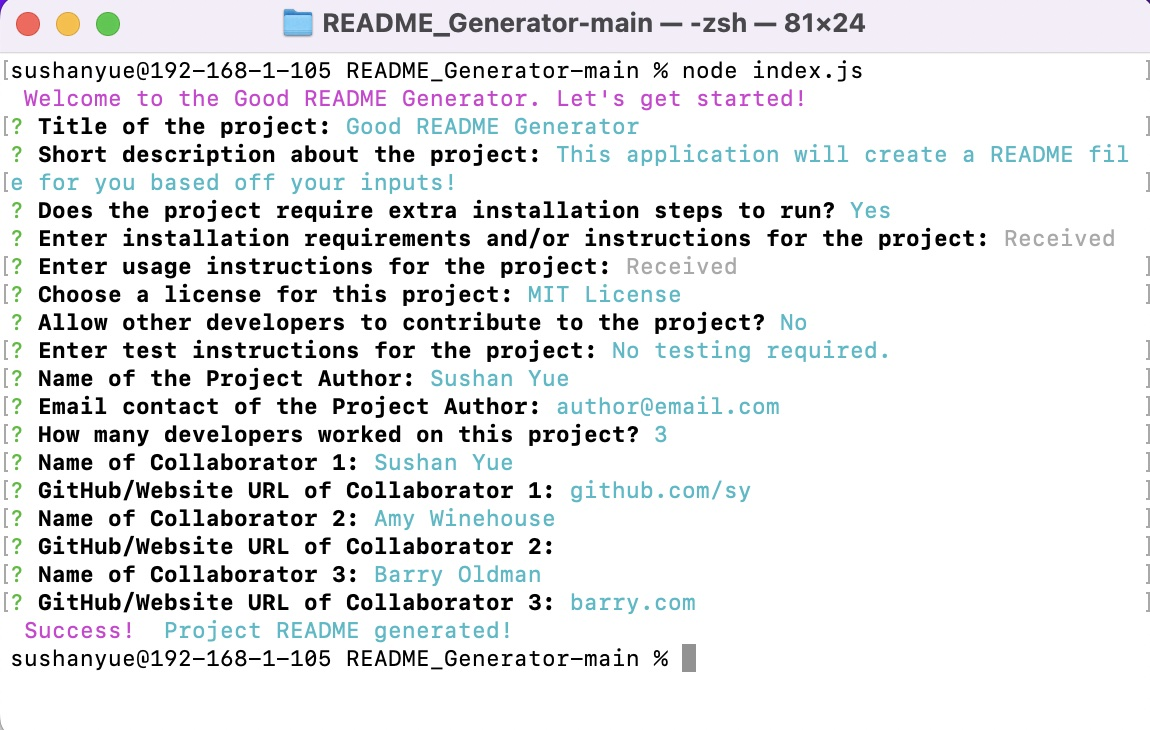
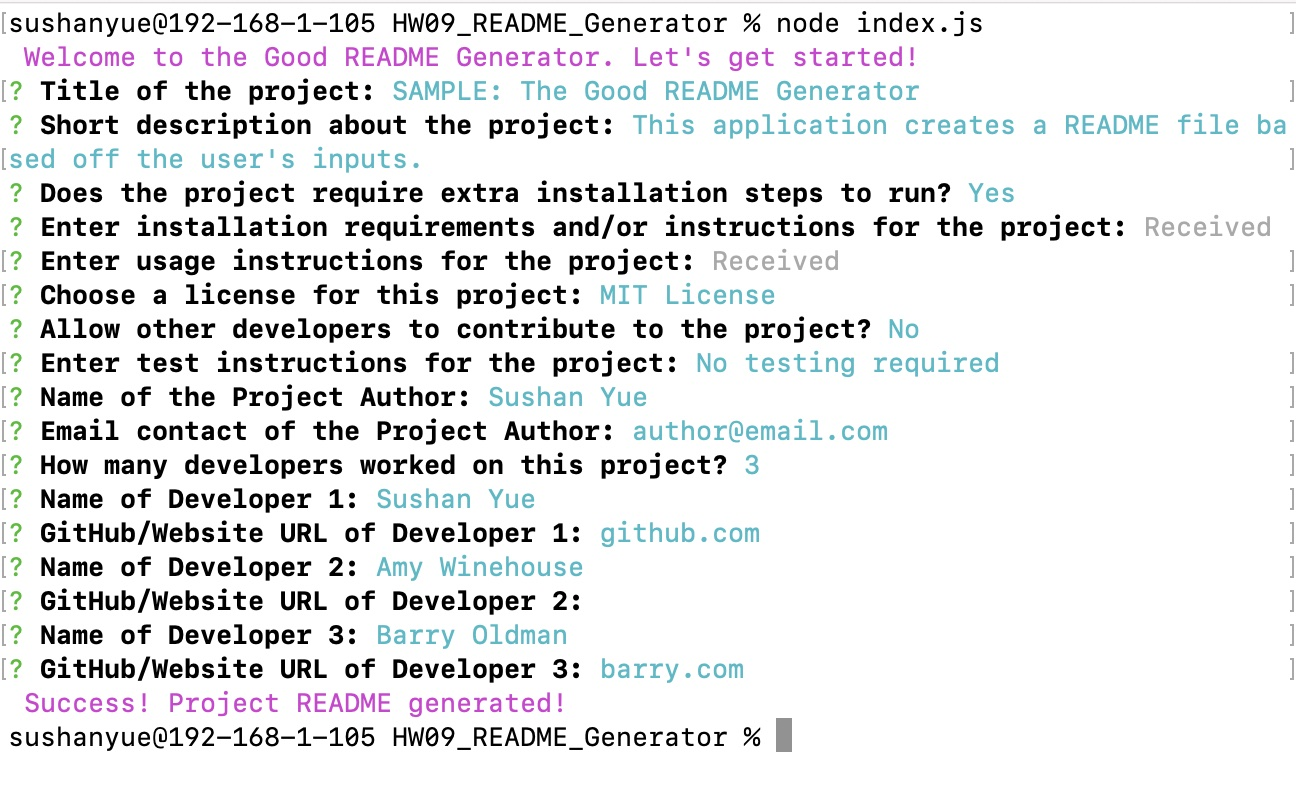
updated README and gifs and images

diff --git a/userREADME.md b/userREADME.md
@@ -1,9 +1,9 @@
-# title
+# SAMPLE: The Good README Generator
 
-[![License: BSL 1.0](https://img.shields.io/badge/License-Boost_1.0-lightblue.svg)](https://www.boost.org/LICENSE_1_0.txt)
+[![License: MIT](https://img.shields.io/badge/License-MIT-yellow.svg)](https://opensource.org/licenses/MIT)
 
 ## Description
-proj
+This application creates a README file based off the user's inputs.
 
 ## Table of Contents
 1. [Installation](#installation)
@@ -14,24 +14,26 @@ proj
 6. [Questions](#questions)
 
 ## Installation
-Installation
+This application uses Node.js and requires the npm Inquirer package to be installed.
 
 
 ## Usage
-Usage
+Using the command line, navigate to the root directory of the generator folder.
+
+Type 'node index.js' to start the application.
 
 
 ## License
-title © 2022 [dev1](dev.com), dev2, [dev3](exit.com).
+SAMPLE: The Good README Generator © 2022 [Sushan Yue](github.com), Amy Winehouse, [Barry Oldman](barry.com).
 
-This project is licensed under the [Boost Software License 1.0](https://www.boost.org/LICENSE_1_0.txt).
+This project is licensed under the [MIT License](https://opensource.org/licenses/MIT).
 
 ## How To Contribute
 This project is not allowing outside contributions at this time.
 
 ## Tests
-test
+No testing required
 
 ## Questions
-If you have any questions about title, please contact **auth** [by sending them an email](mailto:auth@email.com).
+If you have any questions about SAMPLE: The Good README Generator, please contact **Sushan Yue** [by sending them an email](mailto:author@email.com).
 

diff --git a/README.md b/README.md
@@ -54,17 +54,11 @@ Once all the questions have been answered, a userREADME.md file will be created 
 
 ## Demo
 
-**[Video to view README Generator being used in Terminal](https://drive.google.com/file/d/1dYJu7I1vBQFckDE7L4uLhUUAB7lYK4_d/view)**
+**[Video to view README Generator being used in Terminal](https://drive.google.com/file/d/1TF3fSGcck-lrHgQIgh7ge7zTDoMWcpag/view)**
 
 Below: Gif of the above video (README Generator being used in Terminal)
 
-![Demo of README Generator: Terminal](assets/images/demo-readme-generator-terminal.gif?raw=true "README Generator demo")
-
-**[Video of README Generator being used in VSC's Integrated Terminal](https://drive.google.com/file/d/1orE49koff4Hhyg1OelFKoIwZLl_FGDz0/view)**
-
-Below: Gif of the above video (VSC Terminal version)
-
-![Demo of README Generator: VSC](assets/images/demo-readme-generator-VSC.gif?raw=true "README Generator demo")
+![Demo of README Generator: Terminal](assets/images/demo-readme-generator-in-terminal.gif?raw=true "README Generator demo")
 
 ## Screenshots
 
